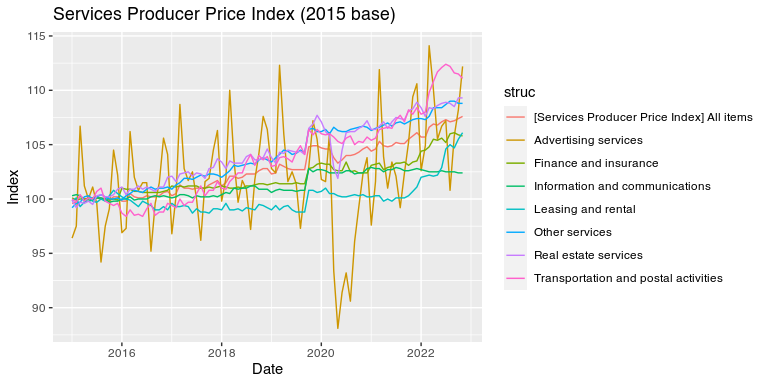
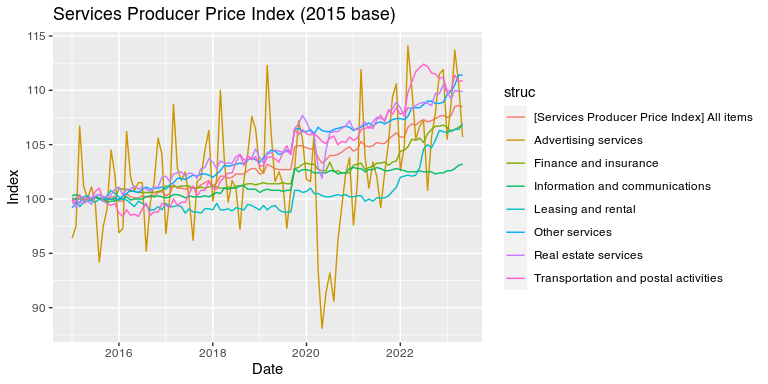
Add files via upload

diff --git a/README.md b/README.md
@@ -63,7 +63,7 @@ data sets. The column `url` can be used as input for the `get_boj()`
 function which downloads, parses and imports the corresponding data set.
 
 To import monthly-frequency data on Japan’s [Services Producer Price
-Index](https://www.boj.or.jp/en/statistics/pi/sppi_2015/index.htm/), run
+Index](https://www.boj.or.jp/en/statistics/pi/sppi_2015/index.htm), run
 the below.
 
 ``` r
@@ -71,20 +71,20 @@ sppi <- get_boj(ds$url[(ds$name == "sppi_m_en")])
 sppi
 ```
 
-    ## # A tibble: 48,355 × 5
-    ##    code              desc                                    struc date  obs_v…¹
-    ##    <chr>             <chr>                                   <chr> <chr>   <dbl>
-    ##  1 PRCS15_5200000000 Services Producer Price Index (2015 ba… [Ser… 2015…    99.6
-    ##  2 PRCS15_5200000000 Services Producer Price Index (2015 ba… [Ser… 2015…    99.7
-    ##  3 PRCS15_5200000000 Services Producer Price Index (2015 ba… [Ser… 2015…   100. 
-    ##  4 PRCS15_5200000000 Services Producer Price Index (2015 ba… [Ser… 2015…   100  
-    ##  5 PRCS15_5200000000 Services Producer Price Index (2015 ba… [Ser… 2015…   100. 
-    ##  6 PRCS15_5200000000 Services Producer Price Index (2015 ba… [Ser… 2015…   100  
-    ##  7 PRCS15_5200000000 Services Producer Price Index (2015 ba… [Ser… 2015…   100. 
-    ##  8 PRCS15_5200000000 Services Producer Price Index (2015 ba… [Ser… 2015…   100. 
-    ##  9 PRCS15_5200000000 Services Producer Price Index (2015 ba… [Ser… 2015…    99.9
-    ## 10 PRCS15_5200000000 Services Producer Price Index (2015 ba… [Ser… 2015…    99.9
-    ## # … with 48,345 more rows, and abbreviated variable name ¹obs_value
+    ## # A tibble: 51,409 × 5
+    ##    code              desc                                  struc date  obs_value
+    ##    <chr>             <chr>                                 <chr> <chr>     <dbl>
+    ##  1 PRCS15_5200000000 Services Producer Price Index (2015 … [Ser… 2015…      99.6
+    ##  2 PRCS15_5200000000 Services Producer Price Index (2015 … [Ser… 2015…      99.7
+    ##  3 PRCS15_5200000000 Services Producer Price Index (2015 … [Ser… 2015…     100. 
+    ##  4 PRCS15_5200000000 Services Producer Price Index (2015 … [Ser… 2015…     100  
+    ##  5 PRCS15_5200000000 Services Producer Price Index (2015 … [Ser… 2015…     100. 
+    ##  6 PRCS15_5200000000 Services Producer Price Index (2015 … [Ser… 2015…     100  
+    ##  7 PRCS15_5200000000 Services Producer Price Index (2015 … [Ser… 2015…     100. 
+    ##  8 PRCS15_5200000000 Services Producer Price Index (2015 … [Ser… 2015…     100. 
+    ##  9 PRCS15_5200000000 Services Producer Price Index (2015 … [Ser… 2015…      99.9
+    ## 10 PRCS15_5200000000 Services Producer Price Index (2015 … [Ser… 2015…      99.9
+    ## # ℹ 51,399 more rows
 
 To plot the data using [ggplot2](https://ggplot2.tidyverse.org), run the
 below.
